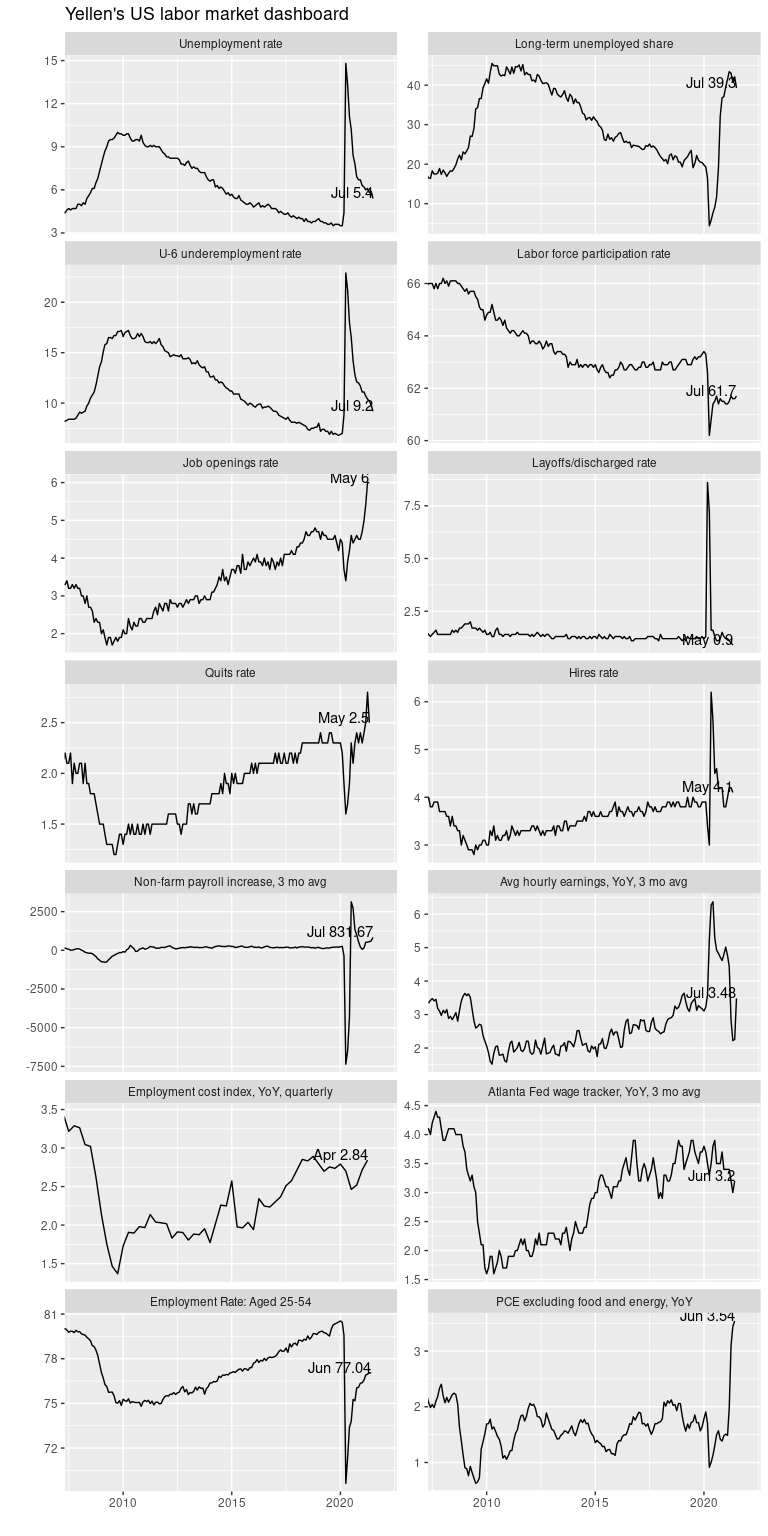
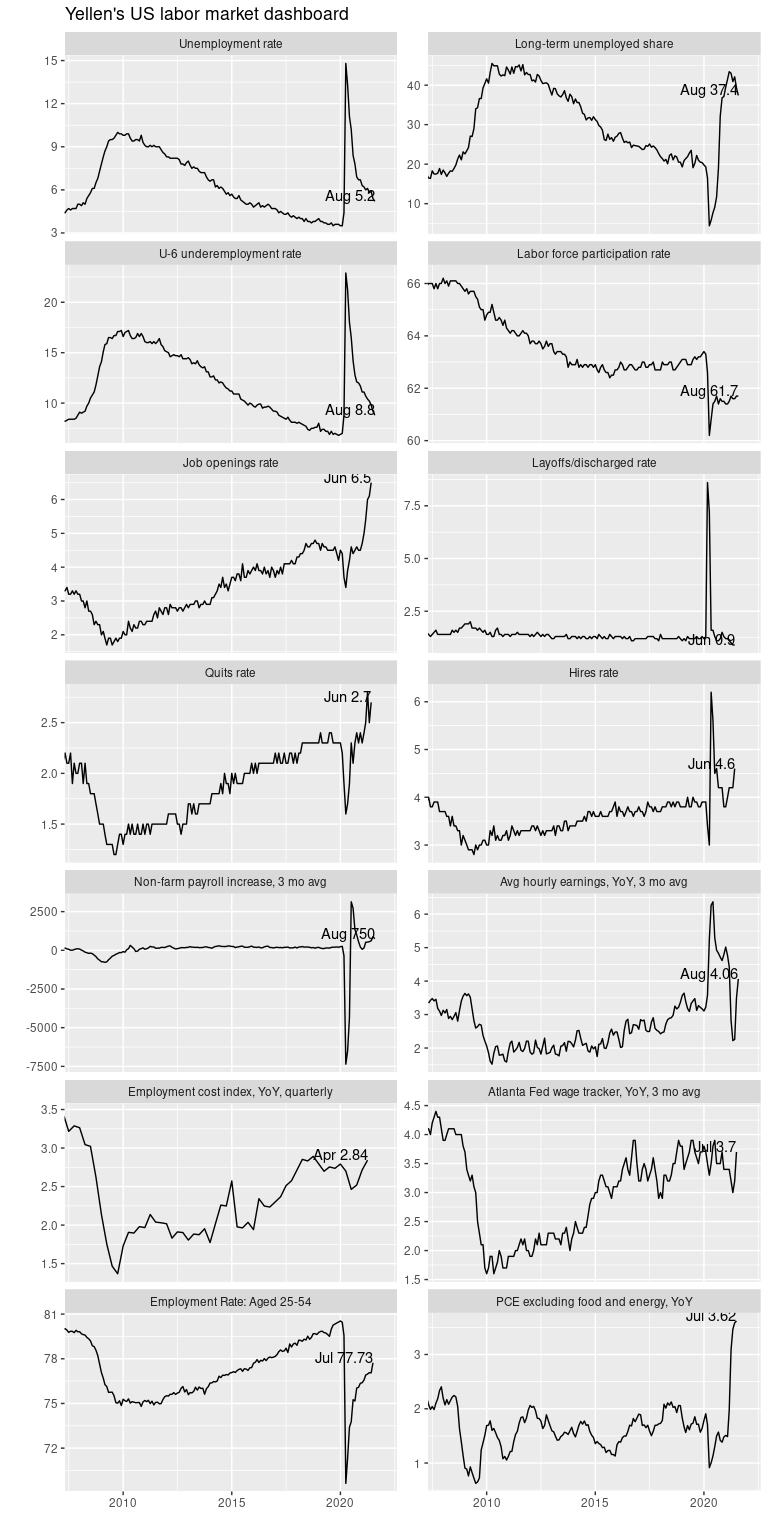
update August 2021 employment

diff --git a/README.md b/README.md
@@ -14,7 +14,7 @@ Mitsuo Shiota
 -   [Prepare for the plot](#prepare-for-the-plot)
 -   [Dashboard](#dashboard)
 
-Updated: 2021-08-07
+Updated: 2021-09-04
 
 ## Summary
 
@@ -107,6 +107,45 @@ labor_mkt_all <- yellen_labor_mkt_symbols %>%
     ## Registered S3 method overwritten by 'tune':
     ##   method                   from   
     ##   required_pkgs.model_spec parsnip
+
+    ## Warning: `type_convert()` only converts columns of type 'character'.
+    ## - `df` has no columns of type 'character'
+
+    ## Warning: `type_convert()` only converts columns of type 'character'.
+    ## - `df` has no columns of type 'character'
+
+    ## Warning: `type_convert()` only converts columns of type 'character'.
+    ## - `df` has no columns of type 'character'
+
+    ## Warning: `type_convert()` only converts columns of type 'character'.
+    ## - `df` has no columns of type 'character'
+
+    ## Warning: `type_convert()` only converts columns of type 'character'.
+    ## - `df` has no columns of type 'character'
+
+    ## Warning: `type_convert()` only converts columns of type 'character'.
+    ## - `df` has no columns of type 'character'
+
+    ## Warning: `type_convert()` only converts columns of type 'character'.
+    ## - `df` has no columns of type 'character'
+
+    ## Warning: `type_convert()` only converts columns of type 'character'.
+    ## - `df` has no columns of type 'character'
+
+    ## Warning: `type_convert()` only converts columns of type 'character'.
+    ## - `df` has no columns of type 'character'
+
+    ## Warning: `type_convert()` only converts columns of type 'character'.
+    ## - `df` has no columns of type 'character'
+
+    ## Warning: `type_convert()` only converts columns of type 'character'.
+    ## - `df` has no columns of type 'character'
+
+    ## Warning: `type_convert()` only converts columns of type 'character'.
+    ## - `df` has no columns of type 'character'
+
+    ## Warning: `type_convert()` only converts columns of type 'character'.
+    ## - `df` has no columns of type 'character'
 
 ## Transform data
 
